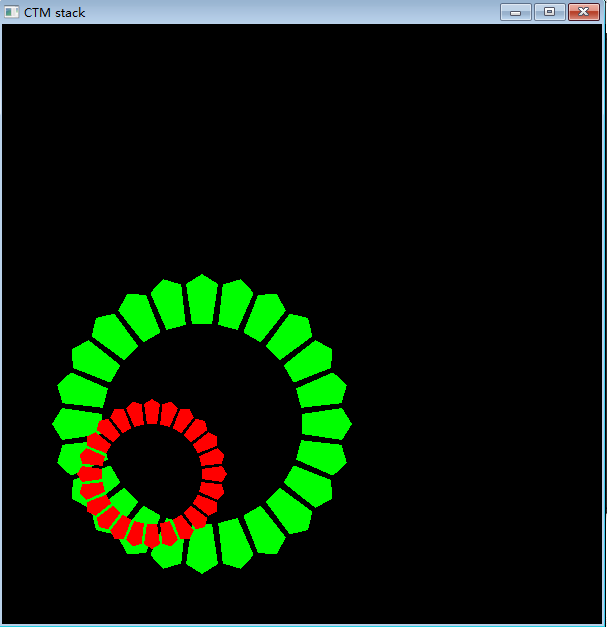
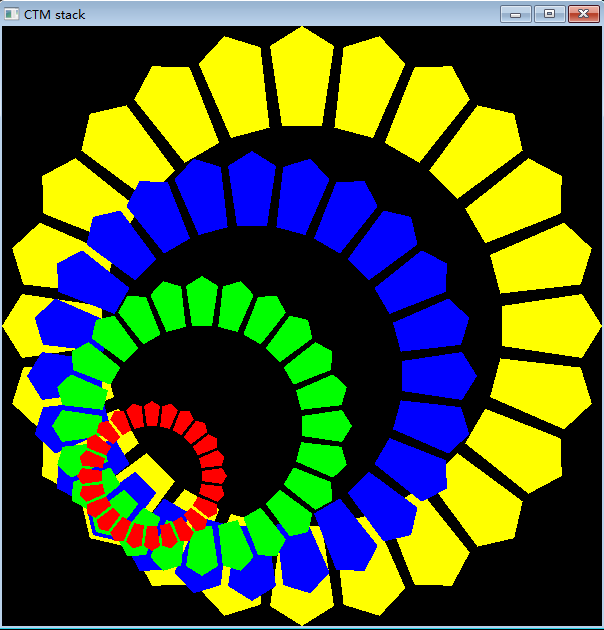
test4

diff --git a/test4/c++/test4_1.cpp b/test4/c++/test4_1.cpp
@@ -36,7 +36,7 @@ void display(void) {
     for (int i = 0; i < 4; ++i) {
         glColor3fv(colors[i]);
         glPushMatrix();
-        glTranslated((i-3)*50, (i-3)*50, -i*50);
+        glTranslated((i-3)*50, (i-3)*50, -i*5);
         glScaled(i+1, i+1, i+1);
         draw_ring();
         glPopMatrix();

diff --git a/test4/README.md b/test4/README.md
@@ -67,7 +67,7 @@ void display(void) {
     for (int i = 0; i < 4; ++i) {
         glColor3fv(colors[i]);
         glPushMatrix();
-        glTranslated((i-3)*50, (i-3)*50, -i*50);
+        glTranslated((i-3)*50, (i-3)*50, -i*5);
         glScaled(i+1, i+1, i+1);
         draw_ring();
         glPopMatrix();
